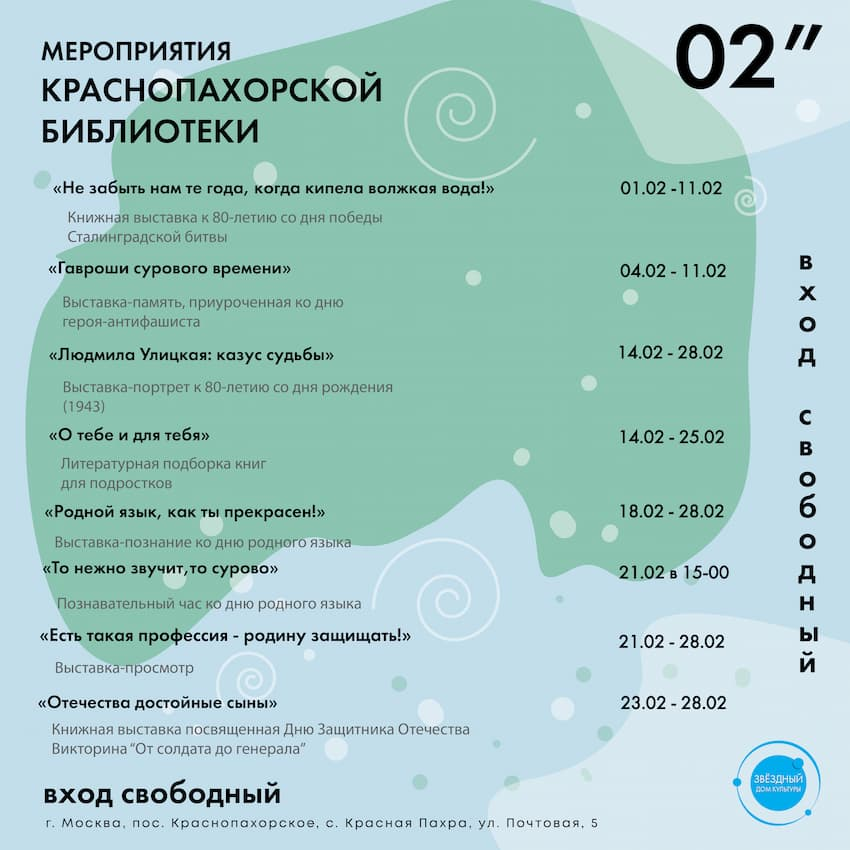
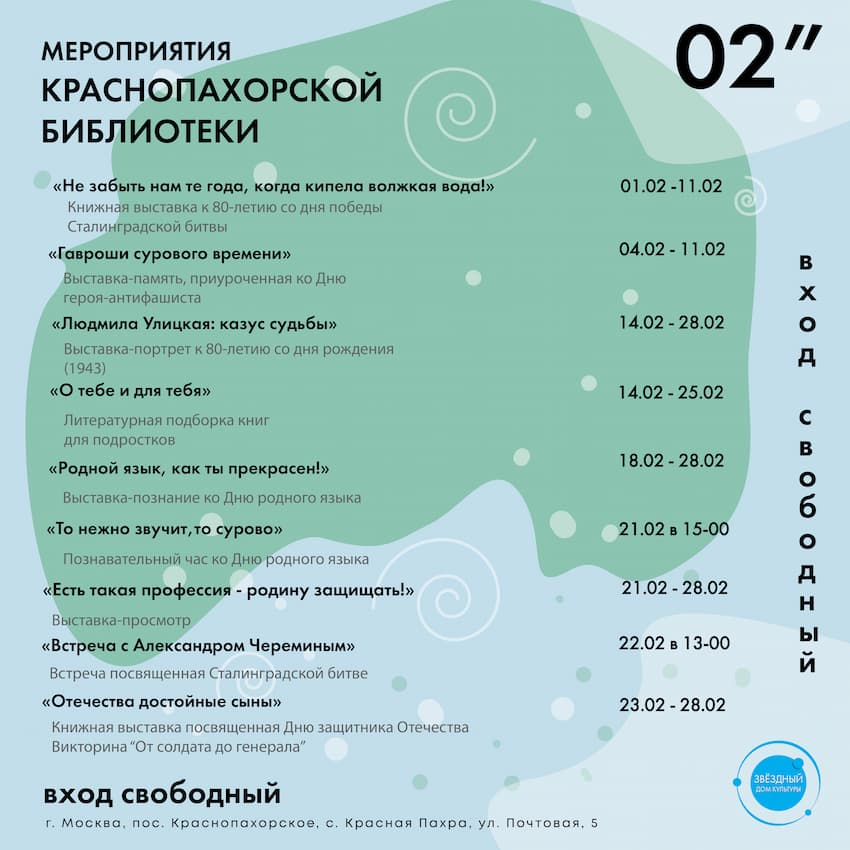
build 1 feb 2023

diff --git a/src/configurations/clubsPageConfigurations/clubsListsConfig.js b/src/configurations/clubsPageConfigurations/clubsListsConfig.js
@@ -58,6 +58,20 @@ export const earlyDevelopmentClubs = [
     {
         id: 5,
         club: 'Клуб раннего развития "Калейдоскоп"',
+        group: 'Группа «Веселая семейка»',
+        age: 'для детей от 1.5 до 3 лет',
+        info: 'Комплексное развивающее занятие для малышей – единая сюжетная линия в формате полноценной истории или сказки. В игровой форме дети знакомятся с окружающим миром и выполняют задания, направленные на всестороннее развитие. Во время занятий развивается интеллект, мышление, внимание, координация, память, моторика. С детьми занимаются артикуляционной гимнастикой, рисуют, лепят, изучают свойства предметов, цветов и геометрических фигур, играют в музыкальные, подвижные и пальчиковые игры по методике Анны Прошкиной, Сергея и Марины Железновых.',
+        manage: 'Королева Ольга Александровна',
+        managePhoto: require('../../assets/images/pesonalPhoto/olga-koroleva.jpg'),
+        shedule: 'Среда, Пятница 11.00 – 11.45',
+        code: '1068580',
+        place: 'ДК Звёздный',
+        price: 'Платный',
+        years: '1.5 - 3'
+    },
+    {
+        id: 6,
+        club: 'Клуб раннего развития "Калейдоскоп"',
         group: 'Группа «Азбука»',
         age: 'для детей от 5 до 7 лет',
         info: 'Комплекс занятий включает в себя первичные навыки счета, письма и чтения. Занятия, проводимые с элементами ментальной арифметики, помогут развить концентрацию внимания, улучшить память, повысить скорость мышления, развить мелкую моторику и научить считать в уме.',
@@ -70,12 +84,12 @@ export const earlyDevelopmentClubs = [
         years: '5 - 7'
     },
     {
-        id: 6,
+        id: 7,
         club: 'Клуб раннего развития "Калейдоскоп"',
         group: 'Группа «Азбука»',
         age: 'для детей от 4-х до 7 лет',
         info: 'Комплекс занятий включает в себя первичные навыки счета, письма и чтения. Занятия, проводимые с элементами ментальной арифметики, помогут развить концентрацию внимания, улучшить память, повысить скорость мышления, развить мелкую моторику и научить считать в уме.',
-        manage: 'Гришина Наталья Валерьевна',
+        manage: 'Гарифуллина Татьяна Николаевна',
         managePhoto: require('../../assets/images/pesonalPhoto/garigyllina-tata-01.jpg'),
         shedule: 'Вторник, Четверг 17.00 – 17.45 (4 – 5 лет);  Вторник, Четверг 18.00 – 18.45 (5 – 6 лет); Вторник, Четверг 19.00 – 19.45 (6 – 7 лет);',
         code: '1100716',
@@ -84,7 +98,7 @@ export const earlyDevelopmentClubs = [
         years: '4 - 7'
     },
     {
-        id: 7,
+        id: 8,
         club: 'Клуб раннего развития "Калейдоскоп"',
         group: 'Группа «Азбука»',
         age: 'для детей от 5 до 7 лет',
@@ -98,7 +112,7 @@ export const earlyDevelopmentClubs = [
         years: '5 - 7'
     },
     {
-        id: 8,
+        id: 9,
         club: 'Клуб интеллектуального развития "Знайка"',
         group: 'Группа «Робототехника»',
         age: 'для детей от 10 до 14 лет',
@@ -112,7 +126,7 @@ export const earlyDevelopmentClubs = [
         years: '10 - 14'
     },
     {
-        id: 9,
+        id: 10,
         club: 'Клуб интеллектуального развития "Знайка"',
         group: 'Группа «Конструирование и моделирование»',
         age: 'для детей от 4 до 6 лет',
@@ -126,7 +140,7 @@ export const earlyDevelopmentClubs = [
         years: '4 - 6'
     },
     {
-        id: 10,
+        id: 11,
         club: 'Клуб интеллектуального развития "Знайка"',
         group: 'Группа «Начальная электроника»',
         age: 'для детей от 7 до 9 лет',
@@ -140,7 +154,7 @@ export const earlyDevelopmentClubs = [
         years: '7 - 9'
     },
     {
-        id: 11,
+        id: 12,
         club: 'Клуб интеллектуального развития "Знайка"',
         group: 'Группа  «The сomp»',
         age: 'для детей от 10 до 14 лет',
@@ -265,7 +279,7 @@ export const artClubs = [
         group: 'Студия декоративно-прикладного творчества «Клубочек»',
         age: 'для детей от 4 до 14 лет',
         info: 'Занятия направлены на развитие творческих способностей каждого. На занятии создается объемная композиция из различных материалов: бумага, картон, цветные нитки, пластилин. Все это смешивается с уже знакомыми природными материалами: соломой, деревом, ракушками, яичной скорлупой и даже соленым тестом. Благодаря этому ребенок узнает о новых свойствах предметов и материй. Используются различные техники: лепка, рисование, декупаж, вырезание, раскрашивание, оригами. Дети учатся самостоятельно работать с ножницами и клеем, сочетать цвета, создавать композицию. Постепенно ребенок становится более усидчивым и аккуратным.',
-        manage: 'Гришина Наталья Валерьевна',
+        manage: 'Гарифуллина Татьяна Николаевна',
         managePhoto: require('../../assets/images/pesonalPhoto/garigyllina-tata-01.jpg'),
         shedule: 'Вторник, Четверг 16:00 - 16:45;',
         code: '',
@@ -575,7 +589,7 @@ export const longevityClubs = [
         group: '',
         age: 'для лиц старшего поколения от 55+',
         info: 'Занятия ориентированы на людей старшего поколения, которые желают укрепить мышцы и связки, избавиться от болей в спине, снизить риск возникновения серьезных заболеваний, снять усталость и повысить свой жизненный тонус.',
-        manage: 'МФомина Оксана Емельяновна',
+        manage: 'Фомина Оксана Емельяновна',
         managePhoto: require('../../assets/images/pesonalPhoto/FominaOksana.jpg'),
         shedule: 'Вторник, Пятница 11:00 – 12:00',
         code: '',

diff --git a/src/configurations/eventsPageConfigurations/eventsListConfig.js b/src/configurations/eventsPageConfigurations/eventsListConfig.js
@@ -90,7 +90,7 @@ export const eventsConfig = [
         eventInfoDate: 'c 1 по 28 февраля',
         eventInfoTitle: 'Мероприятия Краснопахорской библиотеки',
         eventPlace: 'Библиотека Красная Пахра',
-        eventDescription: 'С 1 по 28 февраля в библиотеке "Красная Пахра" пройдёт серия мероприятий: "Не забыть нам те года, когда кипела волжская вода!", "Говроши сурового времени", "Людмила Улицкая: казус судьбы", "О тебе и для тебя", "Родной язык, как ты прекрасен!", "То ненужно звучит, то сурово высокое русское слово", "Есть такая профессия - родину защищать!", "Отечества достойные сыны".',
+        eventDescription: 'С 1 по 28 февраля в библиотеке "Красная Пахра" пройдёт серия мероприятий: "Не забыть нам те года, когда кипела волжская вода!", "Говроши сурового времени", "Людмила Улицкая: казус судьбы", "О тебе и для тебя", "Родной язык, как ты прекрасен!", "То ненужно звучит, то сурово высокое русское слово", "Есть такая профессия - родину защищать!", "Встреча с Александром Череминым", "Отечества достойные сыны".',
         eventCost: 'Бесплатно',
         eventImgSrc: require('../../assets/images/eventsImages/february-lib-pahra-01.jpg'),
         eventsPreviewImg: require('../../assets/images/eventsImages/eventsPreviewImgs/february-lib-pahra-02.jpg'),
